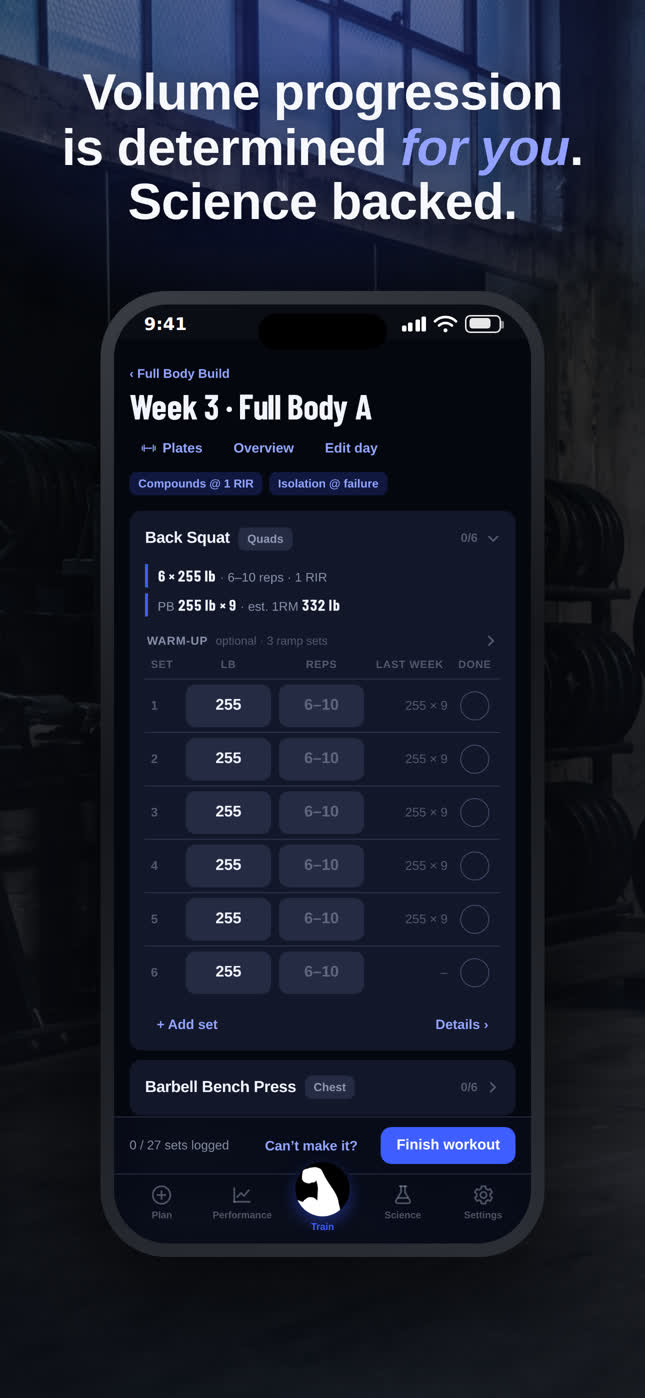
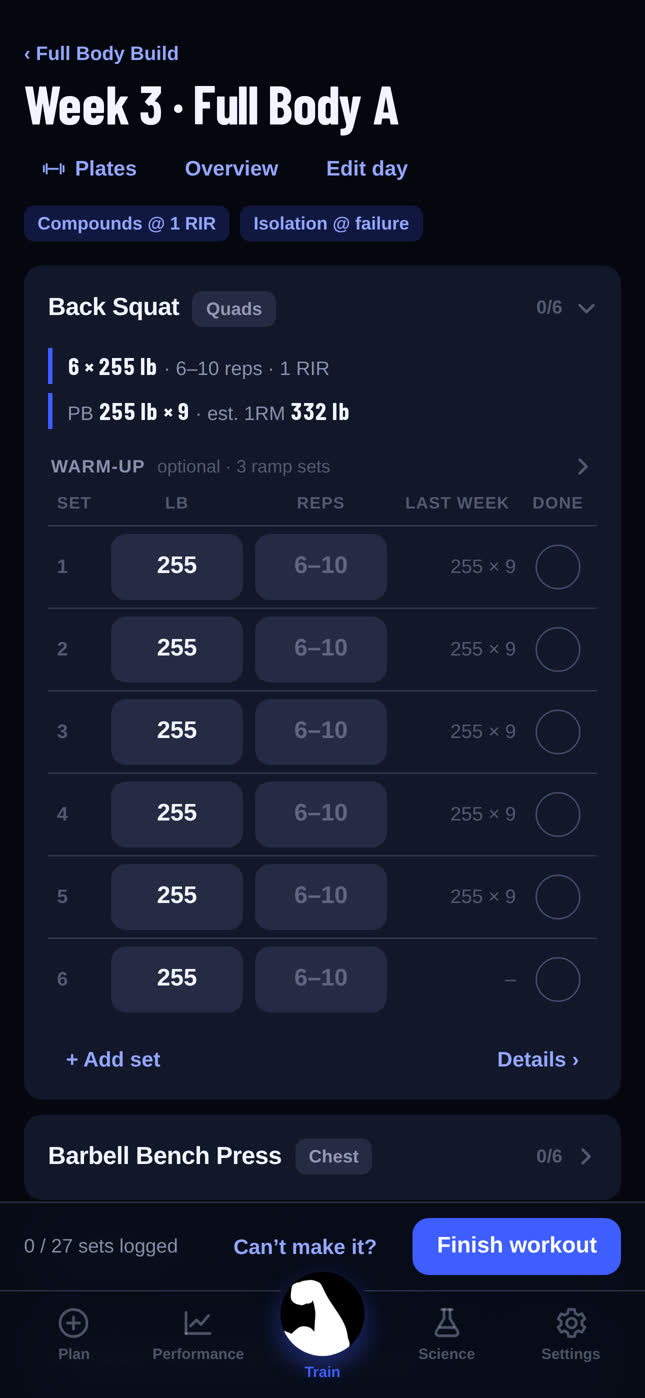
A front page worth landing on
Full-bleed gym hero with the app in frame, alternating feature rows, and the
five engine rules numbered with their citations. Support address moved to
support@mesohypertrophy.com across every page.

diff --git a/index.html b/index.html
@@ -6,8 +6,10 @@
 <title>Meso: Hypertrophy Coach</title>
 <meta name="description" content="A hypertrophy training app that decides your next set from what you actually lifted. Every rule cited to the research. Works offline, no account.">
 <meta property="og:title" content="Meso: Hypertrophy Coach">
-<meta property="og:description" content="Volume you have to earn. Meso reads your logged performance and programs the next week from it.">
+<meta property="og:description" content="Volume you have to earn. Meso reads your logged performance and writes next week from it.">
+<meta property="og:image" content="shots/02-muscles.jpg">
 <meta property="og:type" content="website">
+<meta name="theme-color" content="#05070f">
 <style>
   @font-face {
     font-family: 'Barlow Condensed'; font-style: normal; font-weight: 700; font-display: swap;
@@ -15,156 +17,201 @@
   }
   :root {
     --paper: #05070f; --card: #12172a; --ink: #f2f4ff;
-    --ink-2: rgba(210, 219, 250, 0.66); --ink-3: rgba(210, 219, 250, 0.38);
-    --line: rgba(126, 138, 178, 0.28); --accent: #3e5eff; --accent-text: #93a6ff;
+    --ink-2: rgba(210, 219, 250, 0.68); --ink-3: rgba(210, 219, 250, 0.4);
+    --line: rgba(126, 138, 178, 0.24); --accent: #3e5eff; --accent-text: #93a6ff;
+    --good: #30d158;
     --display: 'Barlow Condensed', -apple-system, 'SF Pro Display', sans-serif;
   }
   * { box-sizing: border-box; }
+  html { scroll-behavior: smooth; }
   body {
     margin: 0; background: var(--paper); color: var(--ink);
-    font: 17px/1.6 -apple-system, BlinkMacSystemFont, 'Segoe UI', Roboto, sans-serif;
-    -webkit-font-smoothing: antialiased;
+    font: 17px/1.62 -apple-system, BlinkMacSystemFont, 'Segoe UI', Roboto, sans-serif;
+    -webkit-font-smoothing: antialiased; overflow-x: hidden;
   }
-  a { color: var(--accent-text); }
-  .wrap { max-width: 940px; margin: 0 auto; padding: 0 20px; }
-  header { padding: 64px 0 8px; }
-  .brand { font-family: var(--display); font-weight: 700; font-size: 22px; letter-spacing: 0.02em; }
+  a { color: var(--accent-text); text-underline-offset: 3px; }
+  .wrap { max-width: 1080px; margin: 0 auto; padding: 0 22px; }
+
+  /* ---------- hero: the gym behind, the product in front ---------- */
+  .hero { position: relative; overflow: hidden; padding: 0 0 40px; }
+  .hero::before {
+    content: ''; position: absolute; inset: 0;
+    background: url('hero-bg.jpg') center/cover no-repeat;
+    filter: grayscale(25%) brightness(0.55); z-index: -2;
+  }
+  .hero::after {
+    content: ''; position: absolute; inset: 0; z-index: -1;
+    background: linear-gradient(180deg, rgba(5,7,15,0.55) 0%, rgba(5,7,15,0.82) 55%, var(--paper) 100%);
+  }
+  .nav { display: flex; align-items: center; gap: 14px; padding: 26px 0 0; }
+  .mark { width: 34px; height: 34px; border-radius: 9px; background: #000; display: grid; place-items: center; }
+  .mark img { width: 100%; height: 100%; object-fit: cover; border-radius: 9px; }
+  .brand { font-family: var(--display); font-weight: 700; font-size: 21px; letter-spacing: 0.04em; }
+  .nav .spacer { flex: 1; }
+  .nav a { color: var(--ink-2); text-decoration: none; font-size: 15px; font-weight: 600; }
+  .hero-grid { display: grid; gap: 34px; grid-template-columns: 1.05fr 0.95fr; align-items: center; padding: 54px 0 0; }
   h1 {
-    font-family: var(--display); font-weight: 700; font-size: clamp(40px, 8vw, 68px);
-    line-height: 1.04; margin: 22px 0 0; text-wrap: balance;
+    font-family: var(--display); font-weight: 700; font-size: clamp(46px, 7.4vw, 82px);
+    line-height: 0.98; margin: 0; letter-spacing: -0.01em; text-wrap: balance;
   }
   h1 em { font-style: italic; color: var(--accent-text); }
-  .lede { font-size: clamp(18px, 2.4vw, 21px); color: var(--ink-2); max-width: 46ch; margin: 18px 0 0; }
-  .cta { display: flex; flex-wrap: wrap; gap: 12px; margin: 28px 0 8px; align-items: center; }
+  .lede { font-size: clamp(17px, 2vw, 20px); color: var(--ink-2); max-width: 44ch; margin: 20px 0 0; }
+  .cta { display: flex; flex-wrap: wrap; gap: 12px; margin: 26px 0 10px; align-items: center; }
   .btn {
     display: inline-block; background: var(--accent); color: #fff; text-decoration: none;
-    font-weight: 650; padding: 13px 22px; border-radius: 12px;
+    font-weight: 650; padding: 14px 24px; border-radius: 12px;
+    box-shadow: 0 10px 30px rgba(62, 94, 255, 0.35);
   }
-  .btn.ghost { background: transparent; color: var(--ink); border: 1px solid var(--line); }
-  .note { color: var(--ink-3); font-size: 14px; }
-  section { padding: 56px 0; border-top: 1px solid var(--line); margin-top: 56px; }
-  h2 {
-    font-family: var(--display); font-weight: 700; font-size: clamp(28px, 4.6vw, 40px);
-    line-height: 1.1; margin: 0 0 14px;
+  .btn.ghost { background: rgba(255,255,255,0.06); color: var(--ink); border: 1px solid var(--line); box-shadow: none; }
+  .pill {
+    display: inline-flex; align-items: center; gap: 8px; font-size: 13.5px; font-weight: 600;
+    color: var(--ink-2); border: 1px solid var(--line); border-radius: 99px; padding: 6px 13px;
   }
-  .grid { display: grid; gap: 28px; grid-template-columns: repeat(auto-fit, minmax(240px, 1fr)); }
-  .card { background: var(--card); border-radius: 16px; padding: 22px; }
-  .card h3 { font-size: 18px; margin: 0 0 8px; }
+  .pill .dot { width: 7px; height: 7px; border-radius: 50%; background: var(--good); }
+  .hero-shot { position: relative; }
+  .hero-shot img {
+    width: 100%; max-width: 340px; margin: 0 auto; display: block; border-radius: 22px;
+    border: 1px solid var(--line); box-shadow: 0 40px 90px rgba(0,0,0,0.6);
+  }
+
+  /* ---------- alternating feature rows ---------- */
+  section { padding: 78px 0 0; }
+  .row { display: grid; gap: 40px; grid-template-columns: 1fr 1fr; align-items: center; padding: 34px 0; }
+  .row:nth-child(even) .row-media { order: 2; }
+  .row img { width: 100%; max-width: 320px; border-radius: 18px; border: 1px solid var(--line); display: block; margin: 0 auto; }
+  .eyebrow {
+    font-family: var(--display); font-weight: 700; letter-spacing: 0.14em; text-transform: uppercase;
+    font-size: 13px; color: var(--accent-text); margin: 0 0 10px;
+  }
+  h2 { font-family: var(--display); font-weight: 700; font-size: clamp(30px, 4.4vw, 44px); line-height: 1.06; margin: 0 0 12px; }
+  .row p { color: var(--ink-2); margin: 0; }
+
+  /* ---------- rules ---------- */
+  .rules { border-top: 1px solid var(--line); margin-top: 60px; }
+  .rules ol { list-style: none; counter-reset: r; padding: 0; margin: 26px 0 0; }
+  .rules li { counter-increment: r; display: grid; grid-template-columns: 46px 1fr; gap: 18px; padding: 20px 0; border-bottom: 1px solid var(--line); }
+  .rules li::before {
+    content: counter(r, decimal-leading-zero); font-family: var(--display); font-weight: 700;
+    font-size: 26px; color: var(--accent-text); line-height: 1.1;
+  }
+  .rules b { display: block; font-weight: 650; margin-bottom: 2px; }
+  .rules span { color: var(--ink-2); font-size: 16px; }
+  .rules cite { display: block; margin-top: 6px; color: var(--ink-3); font-size: 13.5px; font-style: normal; }
+
+  /* ---------- environments ---------- */
+  .grid { display: grid; gap: 20px; grid-template-columns: repeat(auto-fit, minmax(230px, 1fr)); margin-top: 26px; }
+  .card { background: var(--card); border: 1px solid var(--line); border-radius: 16px; padding: 24px; }
+  .card h3 { font-family: var(--display); font-size: 22px; margin: 0 0 8px; font-weight: 700; }
   .card p { margin: 0; color: var(--ink-2); font-size: 15.5px; }
-  .shots { display: grid; gap: 22px; grid-template-columns: repeat(auto-fit, minmax(210px, 1fr)); align-items: start; }
-  .shots figure { margin: 0; }
-  .shots img { width: 100%; border-radius: 14px; display: block; border: 1px solid var(--line); }
-  .shots figcaption { color: var(--ink-3); font-size: 14px; margin-top: 10px; }
-  ul.rules { list-style: none; padding: 0; margin: 0; }
-  ul.rules li { padding: 14px 0; border-bottom: 1px solid var(--line); color: var(--ink-2); }
-  ul.rules li b { color: var(--ink); font-weight: 650; }
-  ul.rules li:last-child { border-bottom: none; }
-  footer { padding: 40px 0 64px; color: var(--ink-3); font-size: 14.5px; }
-  footer a { margin-right: 18px; display: inline-block; }
+
+  footer { margin-top: 78px; border-top: 1px solid var(--line); padding: 34px 0 70px; color: var(--ink-3); font-size: 14.5px; }
+  footer nav a { margin-right: 20px; display: inline-block; margin-bottom: 8px; }
+
+  @media (max-width: 760px) {
+    .hero-grid, .row { grid-template-columns: 1fr; }
+    .row:nth-child(even) .row-media { order: 0; }
+    .hero-grid { padding-top: 34px; }
+  }
   @media (prefers-color-scheme: light) {
     :root {
       --paper: #f2f2f7; --card: #ffffff; --ink: #0b0d14;
-      --ink-2: rgba(60, 60, 67, 0.7); --ink-3: rgba(60, 60, 67, 0.45);
-      --line: rgba(60, 60, 67, 0.16); --accent: #2b48e6; --accent-text: #2440d1;
+      --ink-2: rgba(60, 60, 67, 0.72); --ink-3: rgba(60, 60, 67, 0.48);
+      --line: rgba(60, 60, 67, 0.14); --accent: #2b48e6; --accent-text: #2440d1;
     }
+    .hero::after { background: linear-gradient(180deg, rgba(5,7,15,0.62) 0%, rgba(5,7,15,0.5) 45%, var(--paper) 100%); }
+    .nav a, .brand, h1, .lede, .pill { color: #fff; }
+    .btn.ghost { color: #fff; border-color: rgba(255,255,255,0.28); }
   }
+  @media (prefers-reduced-motion: reduce) { html { scroll-behavior: auto; } }
 </style>
 </head>
 <body>
+
+<div class="hero">
+  <div class="wrap">
+    <div class="nav">
+      <div class="mark"><img src="icon.png" alt=""></div>
+      <span class="brand">MESO</span>
+      <span class="spacer"></span>
+      <a href="#rules">The rules</a>
+      <a href="support.html">Support</a>
+    </div>
+    <div class="hero-grid">
+      <div>
+        <h1>Volume you have to <em>earn</em>.</h1>
+        <p class="lede">Meso reads what you actually lifted and writes next week from it. Beat last week and it adds a
+          set. Stall and it holds. Every rule comes from published research, and the papers are in the app.</p>
+        <div class="cta">
+          <a class="btn" href="#rules">See how it decides</a>
+          <a class="btn ghost" href="support.html">Support</a>
+        </div>
+        <span class="pill"><span class="dot"></span> Coming to the App Store · iPhone · works offline, no account</span>
+      </div>
+      <div class="hero-shot"><img src="shots/01-workout.jpg" alt="A Meso workout screen: prescribed weight, rep window and reps in reserve, with last week's numbers beside every set."></div>
+    </div>
+  </div>
+</div>
+
 <div class="wrap">
-  <header>
-    <div class="brand">MESO</div>
-    <h1>Volume you have to <em>earn</em>.</h1>
-    <p class="lede">Meso reads what you actually lifted and writes next week from it. Beat last week and it adds a
-      set. Stall and it holds. Every rule comes from published research, and you can read the papers in the app.</p>
-    <div class="cta">
-      <a class="btn" href="#how">How it works</a>
-      <a class="btn ghost" href="support.html">Support</a>
+  <section>
+    <div class="row">
+      <div class="row-media"><img src="shots/02-muscles.jpg" alt="A body map with each muscle coloured by how much work it has had this week against its evidence-based band." loading="lazy"></div>
+      <div>
+        <p class="eyebrow">Coverage</p>
+        <h2>See exactly where the work is going</h2>
+        <p>Every muscle is measured against the weekly volume the research supports, so an under-worked muscle is
+          obvious at a glance rather than a surprise eight weeks later. Tap one and the app explains why it is the
+          colour it is and what would change it.</p>
+      </div>
     </div>
-    <p class="note">Coming to the App Store. iPhone. Works offline, no account needed.</p>
-  </header>
+    <div class="row">
+      <div class="row-media"><img src="shots/06-science.jpg" alt="The Science tab, listing each engine rule with links to the studies behind it." loading="lazy"></div>
+      <div>
+        <p class="eyebrow">Evidence</p>
+        <h2>Every rule cited. Check our work.</h2>
+        <p>Other apps say science-based. Meso shows the papers: each rule the engine follows is written in plain
+          language with its citations, in the app, where you can read them mid-session if you want to.</p>
+      </div>
+    </div>
+  </section>
 
-  <section id="how">
-    <h2>What it does</h2>
+  <section class="rules" id="rules">
+    <p class="eyebrow">How it decides</p>
+    <h2>Five rules, and the research behind them</h2>
+    <ol>
+      <li><div><b>Performance is the accelerator</b><span>Beat last week's best sets on a muscle and it earns one more
+        weekly set. Stall and it holds. Regress and it drops.</span><cite>Mann 2010 · Helms 2018 · Enes 2024</cite></div></li>
+      <li><div><b>Soreness is only a brake</b><span>Soreness tracks damage and novelty, not growth, so it can hold
+        volume back or cut it, but it never earns more.</span><cite>Damas 2016 · Damas 2018</cite></div></li>
+      <li><div><b>Reps first, then load</b><span>Climb the rep window, then add roughly 2.5 to 5 percent. Go heavier
+        than asked and hold it across every set, and that becomes your working weight.</span><cite>Plotkin 2022</cite></div></li>
+      <li><div><b>Failure is rationed</b><span>Sets ramp from three reps in reserve down to one. Only isolation work
+        touches failure, and only in the last hard week.</span><cite>Robinson 2024 · Refalo 2023 · Zourdos 2016</cite></div></li>
+      <li><div><b>Deloads come early when the data says so</b><span>Two weeks of regression across several muscles
+        pulls the deload forward, because a sustained performance drop is the validated overreaching
+        signal.</span><cite>Bell 2023 · Meeusen 2013</cite></div></li>
+    </ol>
+  </section>
+
+  <section>
+    <p class="eyebrow">Anywhere</p>
+    <h2>Gym, home, or a bar in a park</h2>
     <div class="grid">
-      <div class="card">
-        <h3>Tells you the weight</h3>
-        <p>Open a session and the numbers are already there: the load, the rep window, and how many reps to leave in
-          reserve. Lift, log what happened, and the next week is written from it.</p>
-      </div>
-      <div class="card">
-        <h3>Adds volume only when you earn it</h3>
-        <p>Extra sets arrive when your logged performance improves. Soreness and joint pain can hold volume back or
-          cut it, but they never add it, because feeling wrecked is not evidence of growth.</p>
-      </div>
-      <div class="card">
-        <h3>Shows its working</h3>
-        <p>Every rule in the engine is cited to the literature, in plain language, inside the app. If you want to
-          check whether the app is guessing, you can.</p>
-      </div>
+      <div class="card"><h3>Gym</h3><p>Barbells, machines and cables, with plate maths and warm-up ramps built in.</p></div>
+      <div class="card"><h3>Home</h3><p>Programs that need a floor, a wall and a sturdy table. Same engine, different lever.</p></div>
+      <div class="card"><h3>Bar park</h3><p>Calisthenics progressions that advance the movement when you top the rep window. Log vest weight and it switches to load progression.</p></div>
     </div>
   </section>
 
-  <section>
-    <h2>A look at it</h2>
-    <div class="shots">
-      <figure>
-        <img src="shots/01-workout.jpg" alt="A workout screen showing prescribed weight, rep range and reps in reserve, with last week's numbers beside each set." loading="lazy">
-        <figcaption>Your next set, decided from what you actually lifted.</figcaption>
-      </figure>
-      <figure>
-        <img src="shots/02-muscles.jpg" alt="A body map with muscles coloured by how much work they have had this week against an evidence-based band." loading="lazy">
-        <figcaption>Every muscle against the volume the research supports.</figcaption>
-      </figure>
-      <figure>
-        <img src="shots/06-science.jpg" alt="The Science tab, listing each engine rule with links to the studies behind it." loading="lazy">
-        <figcaption>Every rule cited. Check our work.</figcaption>
-      </figure>
-    </div>
-  </section>
-
-  <section>
-    <h2>The rules it runs on</h2>
-    <ul class="rules">
-      <li><b>Performance is the accelerator.</b> Beat last week's best sets on a muscle and it earns one more weekly
-        set; stall and it holds; regress and it drops (Mann 2010; Helms 2018; Enes 2024).</li>
-      <li><b>Soreness is only a brake.</b> Soreness tracks damage and novelty, not growth, so it can hold volume back
-        but never add it (Damas 2016; Damas 2018).</li>
-      <li><b>Reps first, then load.</b> Climb the rep window, then add roughly 2.5 to 5 percent. Go heavier than asked
-        and hold it, and that becomes your working weight (Plotkin 2022).</li>
-      <li><b>Failure is rationed.</b> Sets ramp from 3 reps in reserve down to 1. Only isolation work touches failure,
-        and only in the last hard week (Robinson 2024; Refalo 2023).</li>
-      <li><b>Deloads are scheduled, and early when the data says so.</b> Two weeks of regression across several
-        muscles pulls the deload forward, because a sustained performance drop is the validated overreaching signal
-        (Bell 2023; Meeusen 2013).</li>
-    </ul>
-  </section>
-
-  <section>
-    <h2>Wherever you train</h2>
-    <div class="grid">
-      <div class="card">
-        <h3>Gym</h3>
-        <p>Barbells, machines and cables, with plate maths and warm-up ramps built in.</p>
-      </div>
-      <div class="card">
-        <h3>Home</h3>
-        <p>Programs that need a floor, a wall and a sturdy table. The same engine, different lever.</p>
-      </div>
-      <div class="card">
-        <h3>Bar park</h3>
-        <p>Calisthenics progressions that advance the movement when you top the rep window. Log vest weight and it
-          switches to load progression.</p>
-      </div>
-    </div>
-  </section>
-
-  <footer class="wrap">
-    <a href="support.html">Support</a>
-    <a href="privacy.html">Privacy</a>
-    <a href="accessibility.html">Accessibility</a>
-    <a href="suitability.html">Training readiness</a>
-    <p style="margin-top:18px">Meso is training guidance, not medical advice.</p>
+  <footer>
+    <nav>
+      <a href="support.html">Support</a>
+      <a href="privacy.html">Privacy</a>
+      <a href="accessibility.html">Accessibility</a>
+      <a href="suitability.html">Training readiness</a>
+      <a href="mailto:support@mesohypertrophy.com">support@mesohypertrophy.com</a>
+    </nav>
+    <p>Meso is training guidance, not medical advice. Train with your clinician's blessing if something is injured.</p>
   </footer>
 </div>
 </body>

diff --git a/support.html b/support.html
@@ -4,7 +4,7 @@
 <style>body{font:16px/1.6 -apple-system,system-ui,sans-serif;max-width:640px;margin:40px auto;padding:0 20px;color:#111}h1{font-size:26px}h2{font-size:18px;margin-top:28px}ul{padding-left:20px}li{margin:8px 0}footer{margin-top:40px;color:#666;font-size:13px}</style>
 </head><body>
 <h1>Meso Support</h1>
-<p>Need a hand with Meso? Email <a href="mailto:theboss@nathansalt.com">theboss@nathansalt.com</a> and we will get back to you. Bug reports, feature ideas, and questions are all welcome. If you are reporting a problem, tell us your iPhone model, your iOS version, and what you were doing when it happened.</p>
+<p>Need a hand with Meso? Email <a href="mailto:support@mesohypertrophy.com">support@mesohypertrophy.com</a> and we will get back to you. Bug reports, feature ideas, and questions are all welcome. If you are reporting a problem, tell us your iPhone model, your iOS version, and what you were doing when it happened.</p>
 <h2>Common questions</h2>
 <ul>
 <li><b>How does the free trial work?</b> Your first mesocycle is free. After that, Meso Pro is a subscription that unlocks longer programs and continued training. You are never charged for the first block.</li>

diff --git a/accessibility.html b/accessibility.html
@@ -21,6 +21,6 @@
 <li><b>Captions and audio descriptions.</b> Not applicable: Meso has no in-app video or audio content. Technique videos open in your browser, where the original source provides its own captions.</li>
 </ul>
 <h2>Reporting a problem</h2>
-<p>If any part of Meso does not work with the assistive technology you use, please tell us and we will fix it. Email theboss@nathansalt.com with the feature you were using and what went wrong, and we will follow up.</p>
+<p>If any part of Meso does not work with the assistive technology you use, please tell us and we will fix it. Email support@mesohypertrophy.com with the feature you were using and what went wrong, and we will follow up.</p>
 <footer>Meso is made by Nathan Salt, Australia. See also our <a href="privacy.html">Privacy Policy</a>.</footer>
 </body></html>

diff --git a/privacy.html b/privacy.html
@@ -14,6 +14,6 @@
 <h2>Health disclaimer</h2>
 <p>Meso provides training guidance, not medical advice. Consult a health professional before starting a training program.</p>
 <h2>Changes and contact</h2>
-<p>If this policy changes, the update will be posted at this address with a new effective date. Questions: theboss@nathansalt.com.</p>
+<p>If this policy changes, the update will be posted at this address with a new effective date. Questions: support@mesohypertrophy.com.</p>
 <footer>Meso is made by Nathan Salt, Australia.</footer>
 </body></html>
